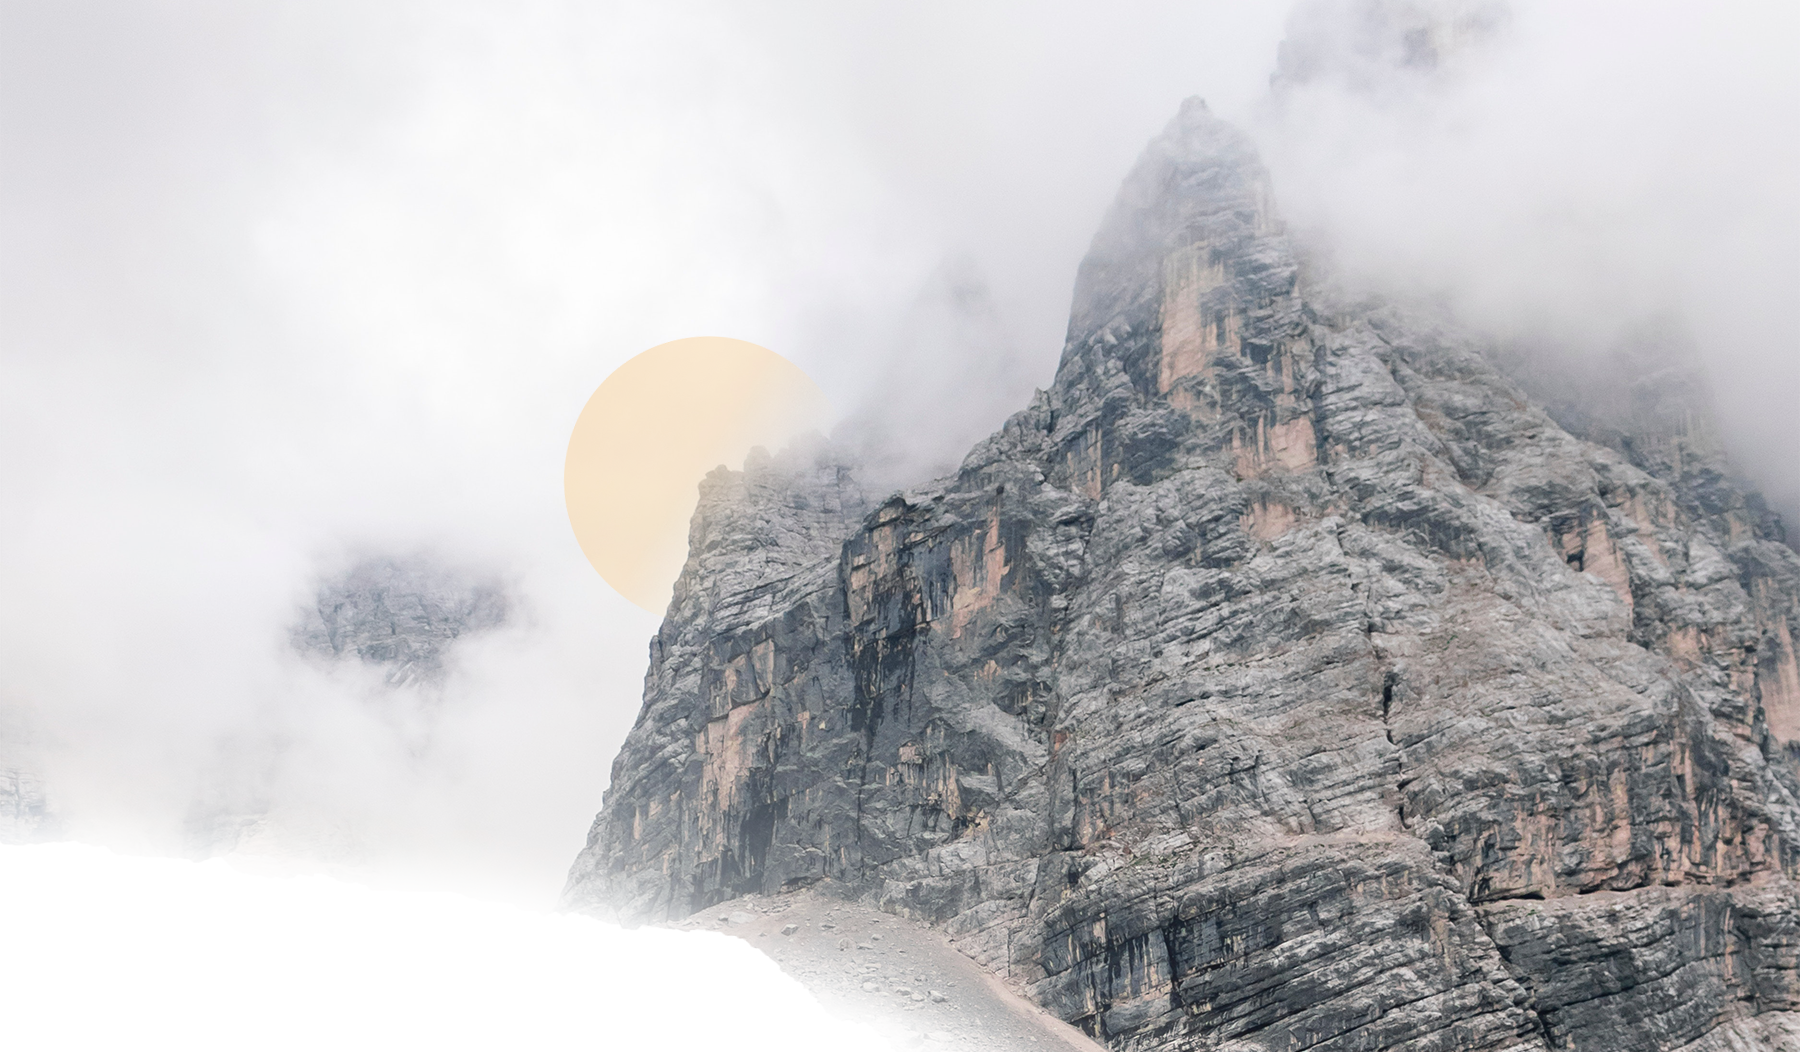
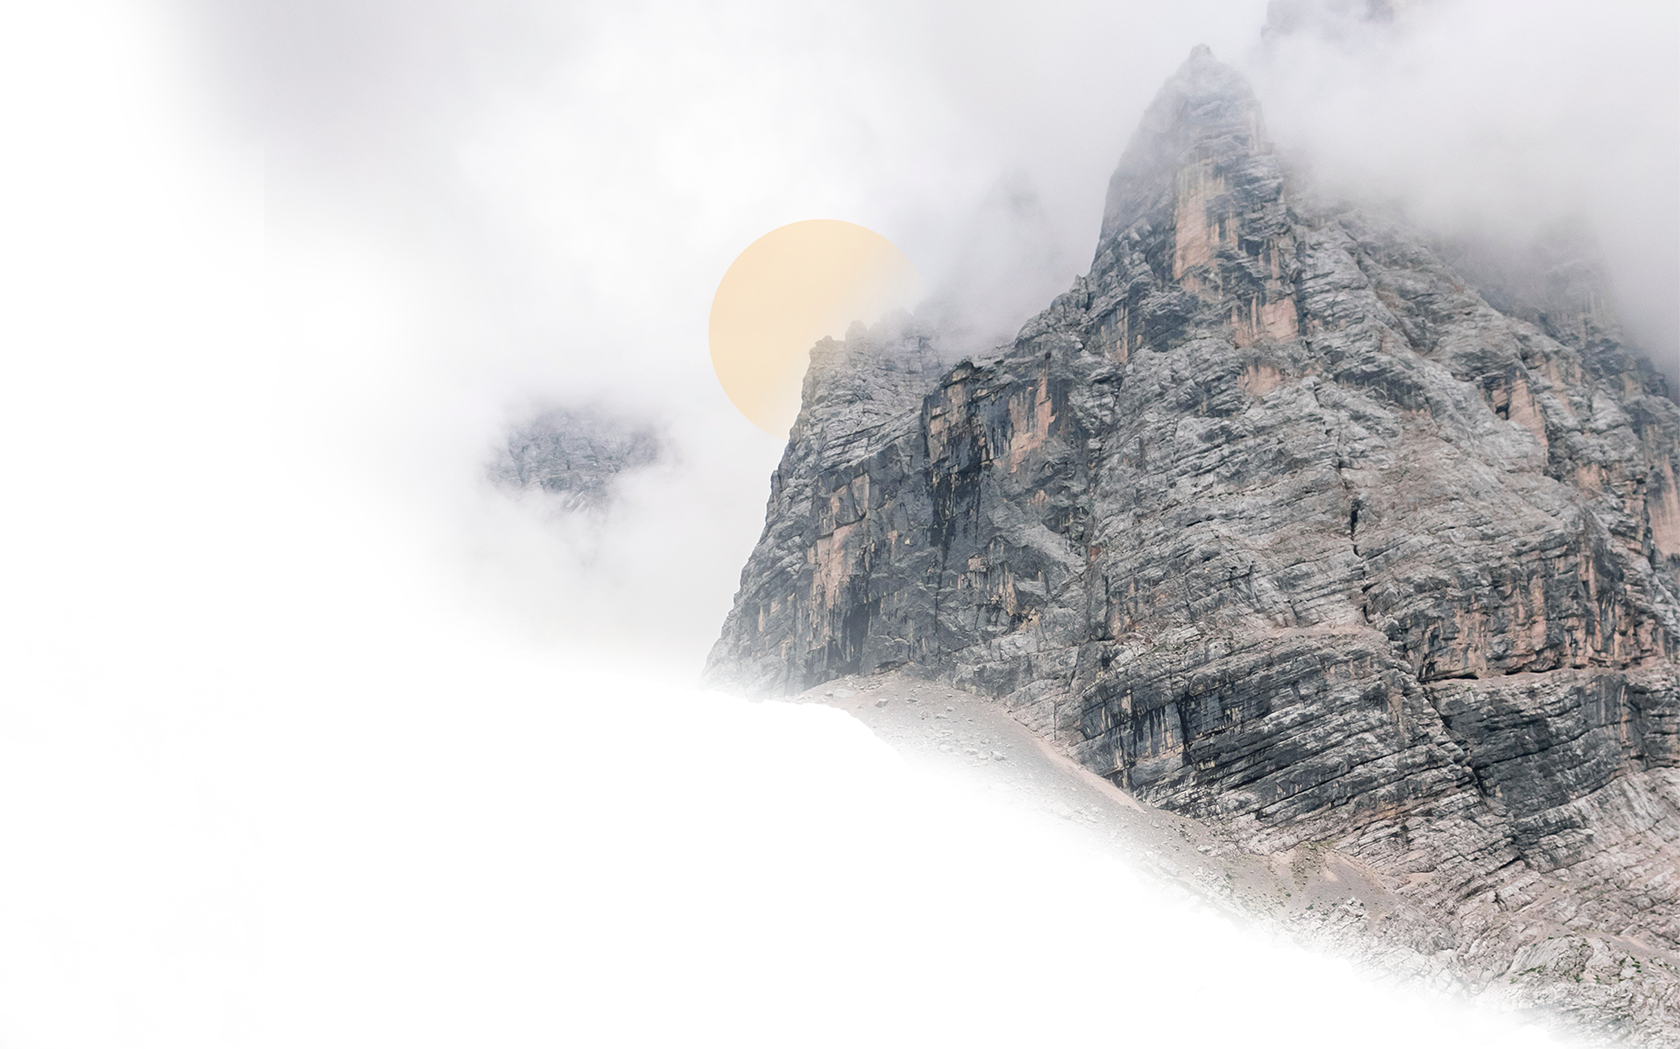
majot content updates

diff --git a/index.html b/index.html
@@ -15,12 +15,14 @@
 
     <div id="home">
         <!--<img class="background-image" src="images/top-mountain-eddited-descktop.png"></img>-->
+        <h1>Take Your Brand To The Next Level</h1>
         <div class="rectangular-top-left"></div>
         <div class="rectangular-top-center"></div>
         <div class="container">
+
             <!--<img class="oval-image" src="images/Oval.png"></img>-->
             <!--    Main menu   -->
-            <nav class="navbar navbar-expand-lg navbar-trans navbar-inverse">
+            <nav class="navbar navbar-expand-lg navbar-light ">
                 <a class="navbar-brand" href="#"><img class="main-logo" src="images/logo.png"></a>
                 <button class="navbar-toggler" type="button" data-toggle="collapse" data-target="#navbarNavAltMarkup" aria-controls="navbarNavAltMarkup" aria-expanded="false" aria-label="Toggle navigation">
     <span class="navbar-toggler-icon"></span>
@@ -34,18 +36,38 @@
                         <a class="nav-item nav-link" href="#">Contacts</a>
                     </div>
                 </div>
-            </nav>
+            </nav> <!-- /navbar -->
+
         </div>
         <!-- Main Content -->
 
 
     </div>
 
+
+
     <!-- About Content -->
     <div id="about">
-
+       <div class="rectangular-top-left-about"></div>
+        <div class="container">
+           <div class="row">
+            <div class="col-lg-6 about-us-parent">
+                <div class="about-us">
+                    <h2>About Us</h2>
+                    <p>Lorem ipsum dolor sit amet, consectetur adipisicing elit. Repellendus modi delectus ratione voluptatum veritatis, facilis. Tempora, officia, nostrum iusto quaerat voluptatum similique in temporibus non ratione fuga ducimus voluptatem ad. Eveniet quas fuga ab impedit perferendis sapiente accusamus mollitia praesentium.</p>
+                </div>
+            </div>
+            <div class="col-lg-6">
+                <div class="service-icons">
+                    <div class="ind-serv-icons left-icon"></div>
+                    <div class="ind-serv-icons top-icon"></div>
+                    <div class="ind-serv-icons right-icon"></div>
+                    <div class="ind-serv-icons bottom-icon"></div>
+                </div>
+            </div>
+        </div>
     </div>
-
+</div>
 
 
 

diff --git a/css/style.css b/css/style.css
@@ -1,19 +1,19 @@
-
 /*   Home Seciton    */
 
 #home {
     height: 100vh;
-    background: url('../images/top-mountain-eddited-descktop.png')  no-repeat;
+    background: url('../images/main-background-image.png') no-repeat;
     background-size: cover;
 }
 
+/*
 .background-image {
     position: absolute;
     z-index: -1;
-    /*width: 100%;*/
+    width: 100%;
     height: 100%;
-    
 }
+*/
 
 .main-logo {
     width: 150px;
@@ -28,20 +28,21 @@
 }
 
 .rectangular-top-left,
-.rectangular-top-center {
+.rectangular-top-center,
+.rectangular-top-left-about {
     position: absolute;
     z-index: 1;
     opacity: 0.42;
     border: 1px solid #979797;
 }
-    
-    
+
+
 .rectangular-top-left {
     left: 10%;
     top: 10%;
     height: 60%;
     width: 400px;
-}   
+}
 
 .rectangular-top-center {
     left: 30%;
@@ -54,15 +55,86 @@
 
 /*   About Seciton    */
 
-/*#about {*/
-/*    height: 100vh;*/
-/*    background: pink;*/
-/*}*/
+#about {
+    height: 100vh;
+    position: relative;
+}
+
+.container {
+    position: relative;
+}
+
+.rectangular-top-left-about {
+    left: 0;
+    top: 5px;
+    height: 450px;
+    width: 75%;
+    z-index: -1;
+}
+
+.about-us {
+    margin-top: -200px;
+    height: 500px;
+    width: 400px;
+    background: #343434;
+}
+
+.about-us h2 {
+    margin: 50px 30% 0;
+    color: #FCD091;
+}
+
+.about-us p {
+    padding: 15px 25px;
+    color: #fff;
+}
+
+.service-icons {
+    position: relative;
+}
+
+.ind-serv-icons {
+    top: -160px;
+    left: 150px;
+    /*    position: absolute;*/
+    width: 300px;
+    height: 300px;
+    background: #D8D8D8;
+}
 
 
 
+/*media queries*/
 
+@media all and (max-width: 1690px) {
+    ...
+}
 
+@media all and (max-width: 1280px) {
+    ...
+}
 
+@media all and (max-width: 980px) {
+    ...
+}
 
+@media all and (max-width: 736px) {
+    ...
+}
 
+@media all and (max-width: 480px) {
+
+    .rectangular-top-left,
+    .rectangular-top-center,
+    .rectangular-top-left-about {
+        display: none;
+    }
+    #home {
+        width: 100%;
+    }
+
+    .about-us {
+        width: auto;
+    }
+
+}
